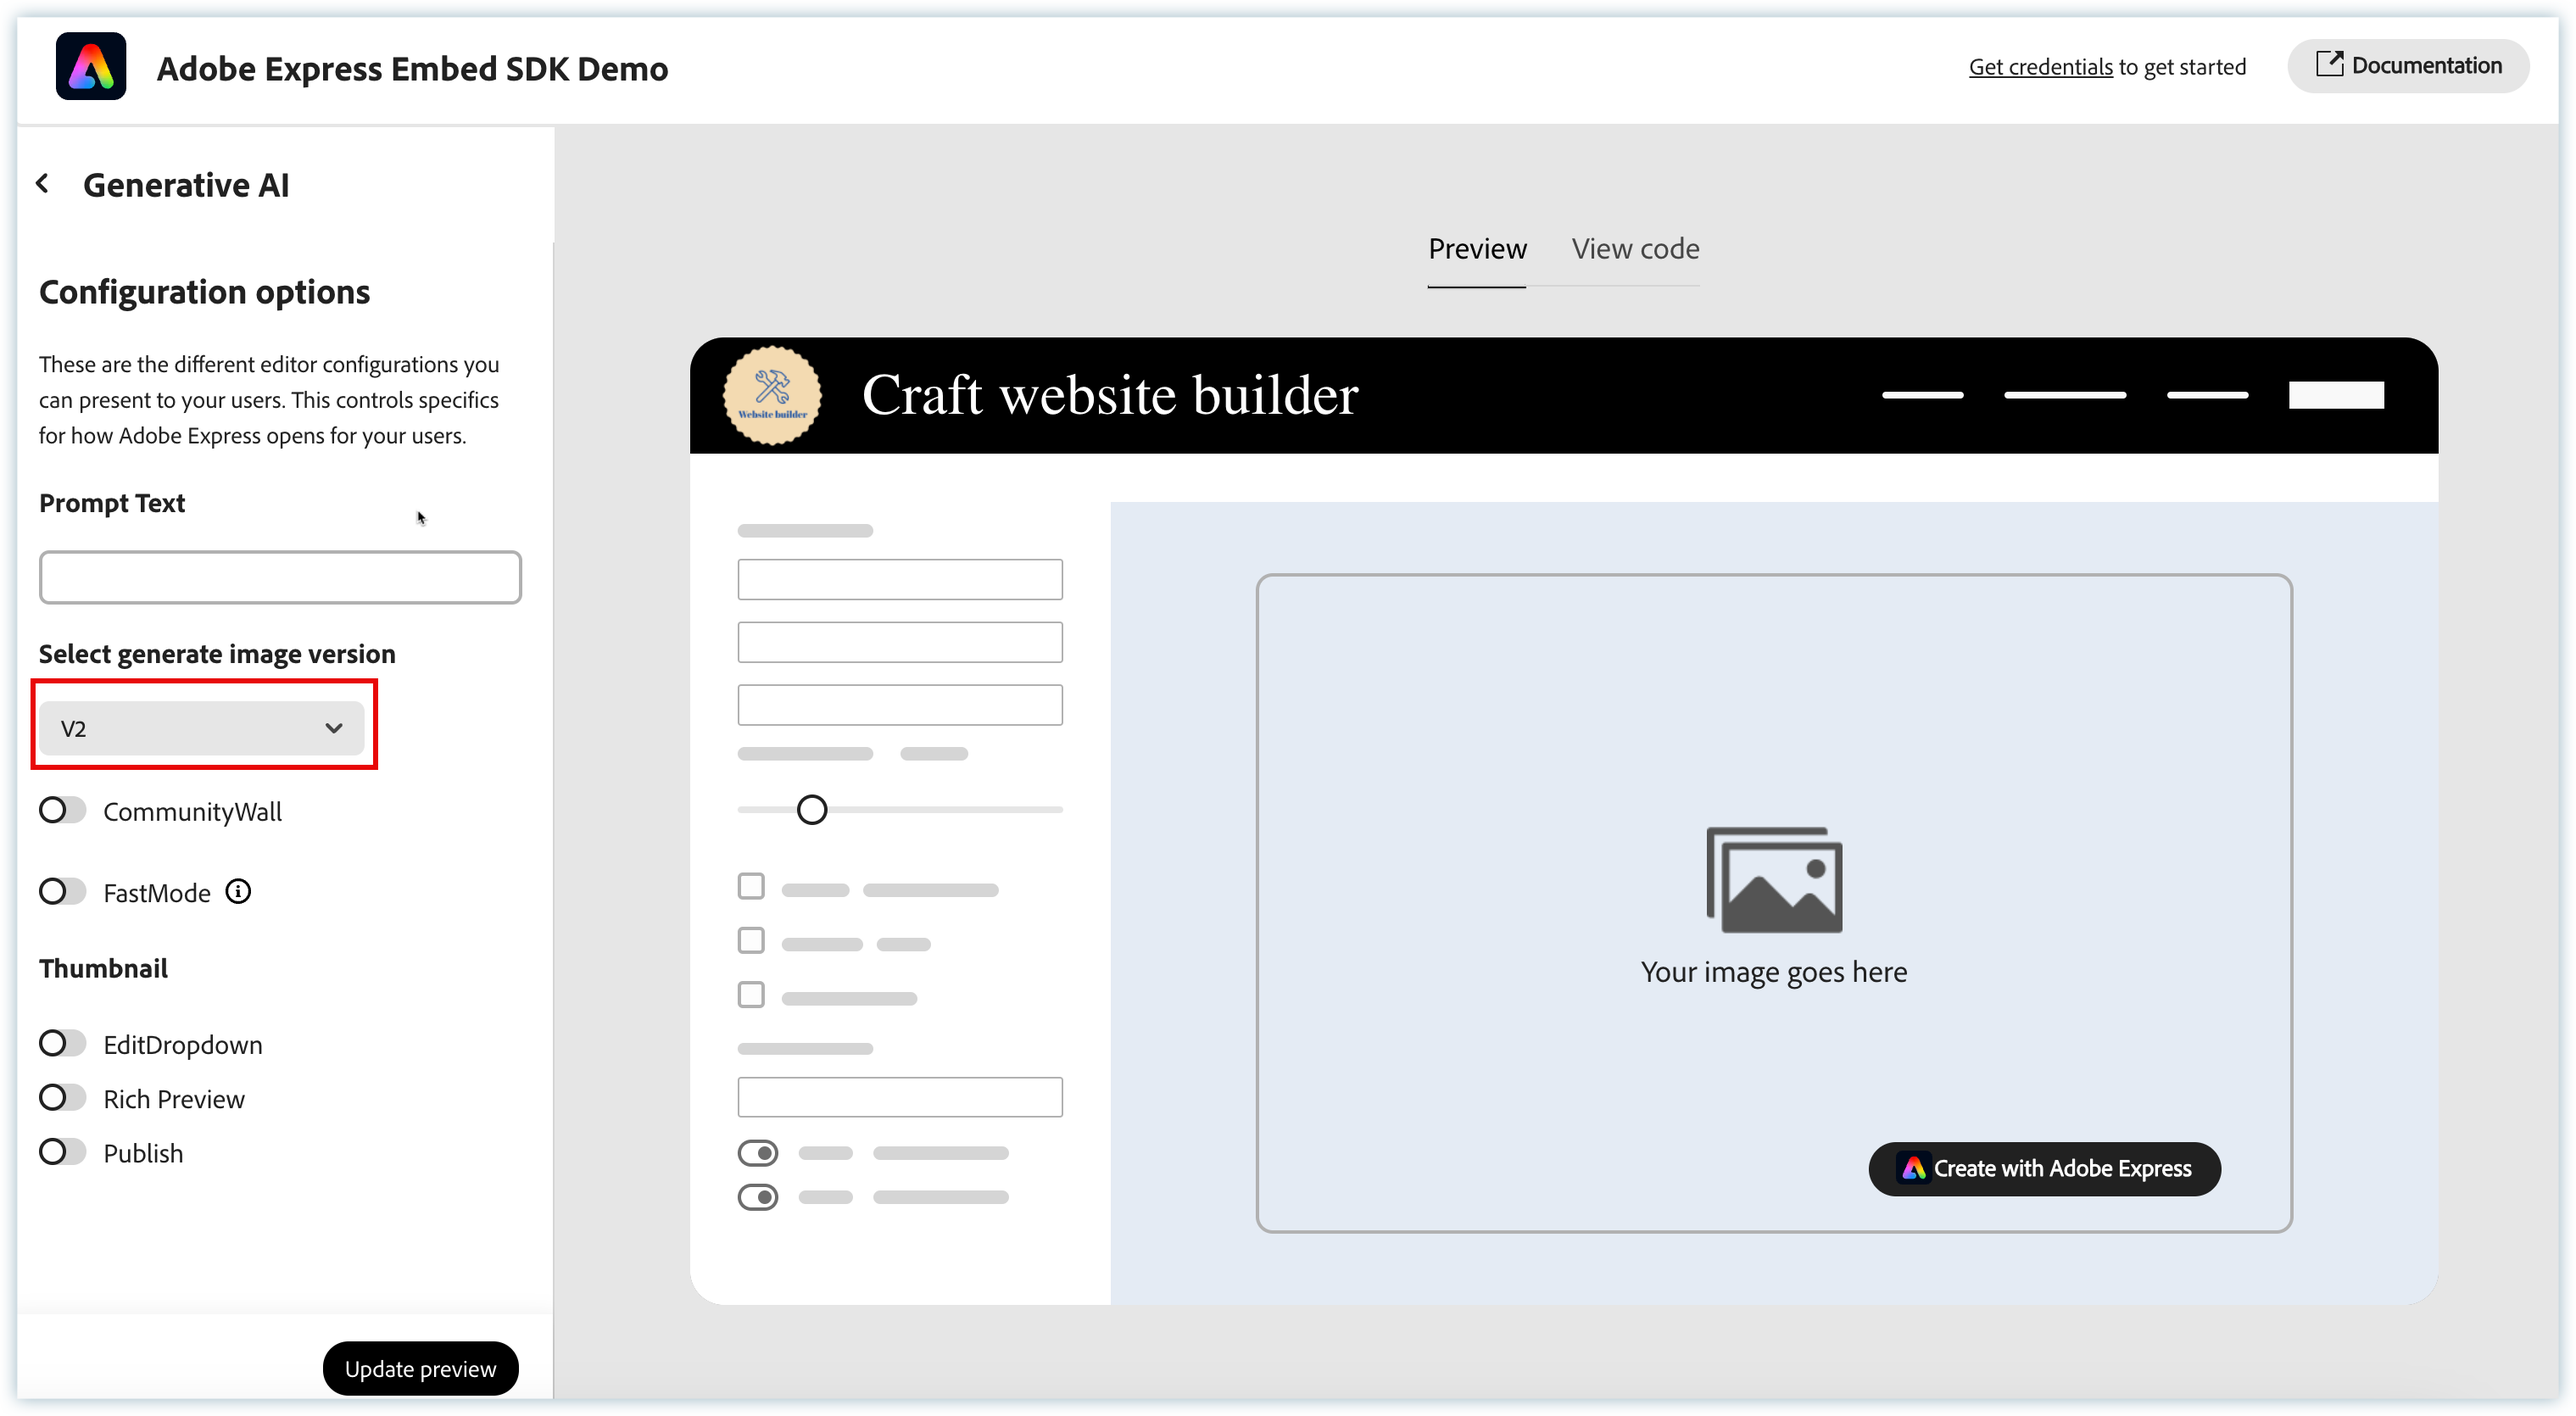
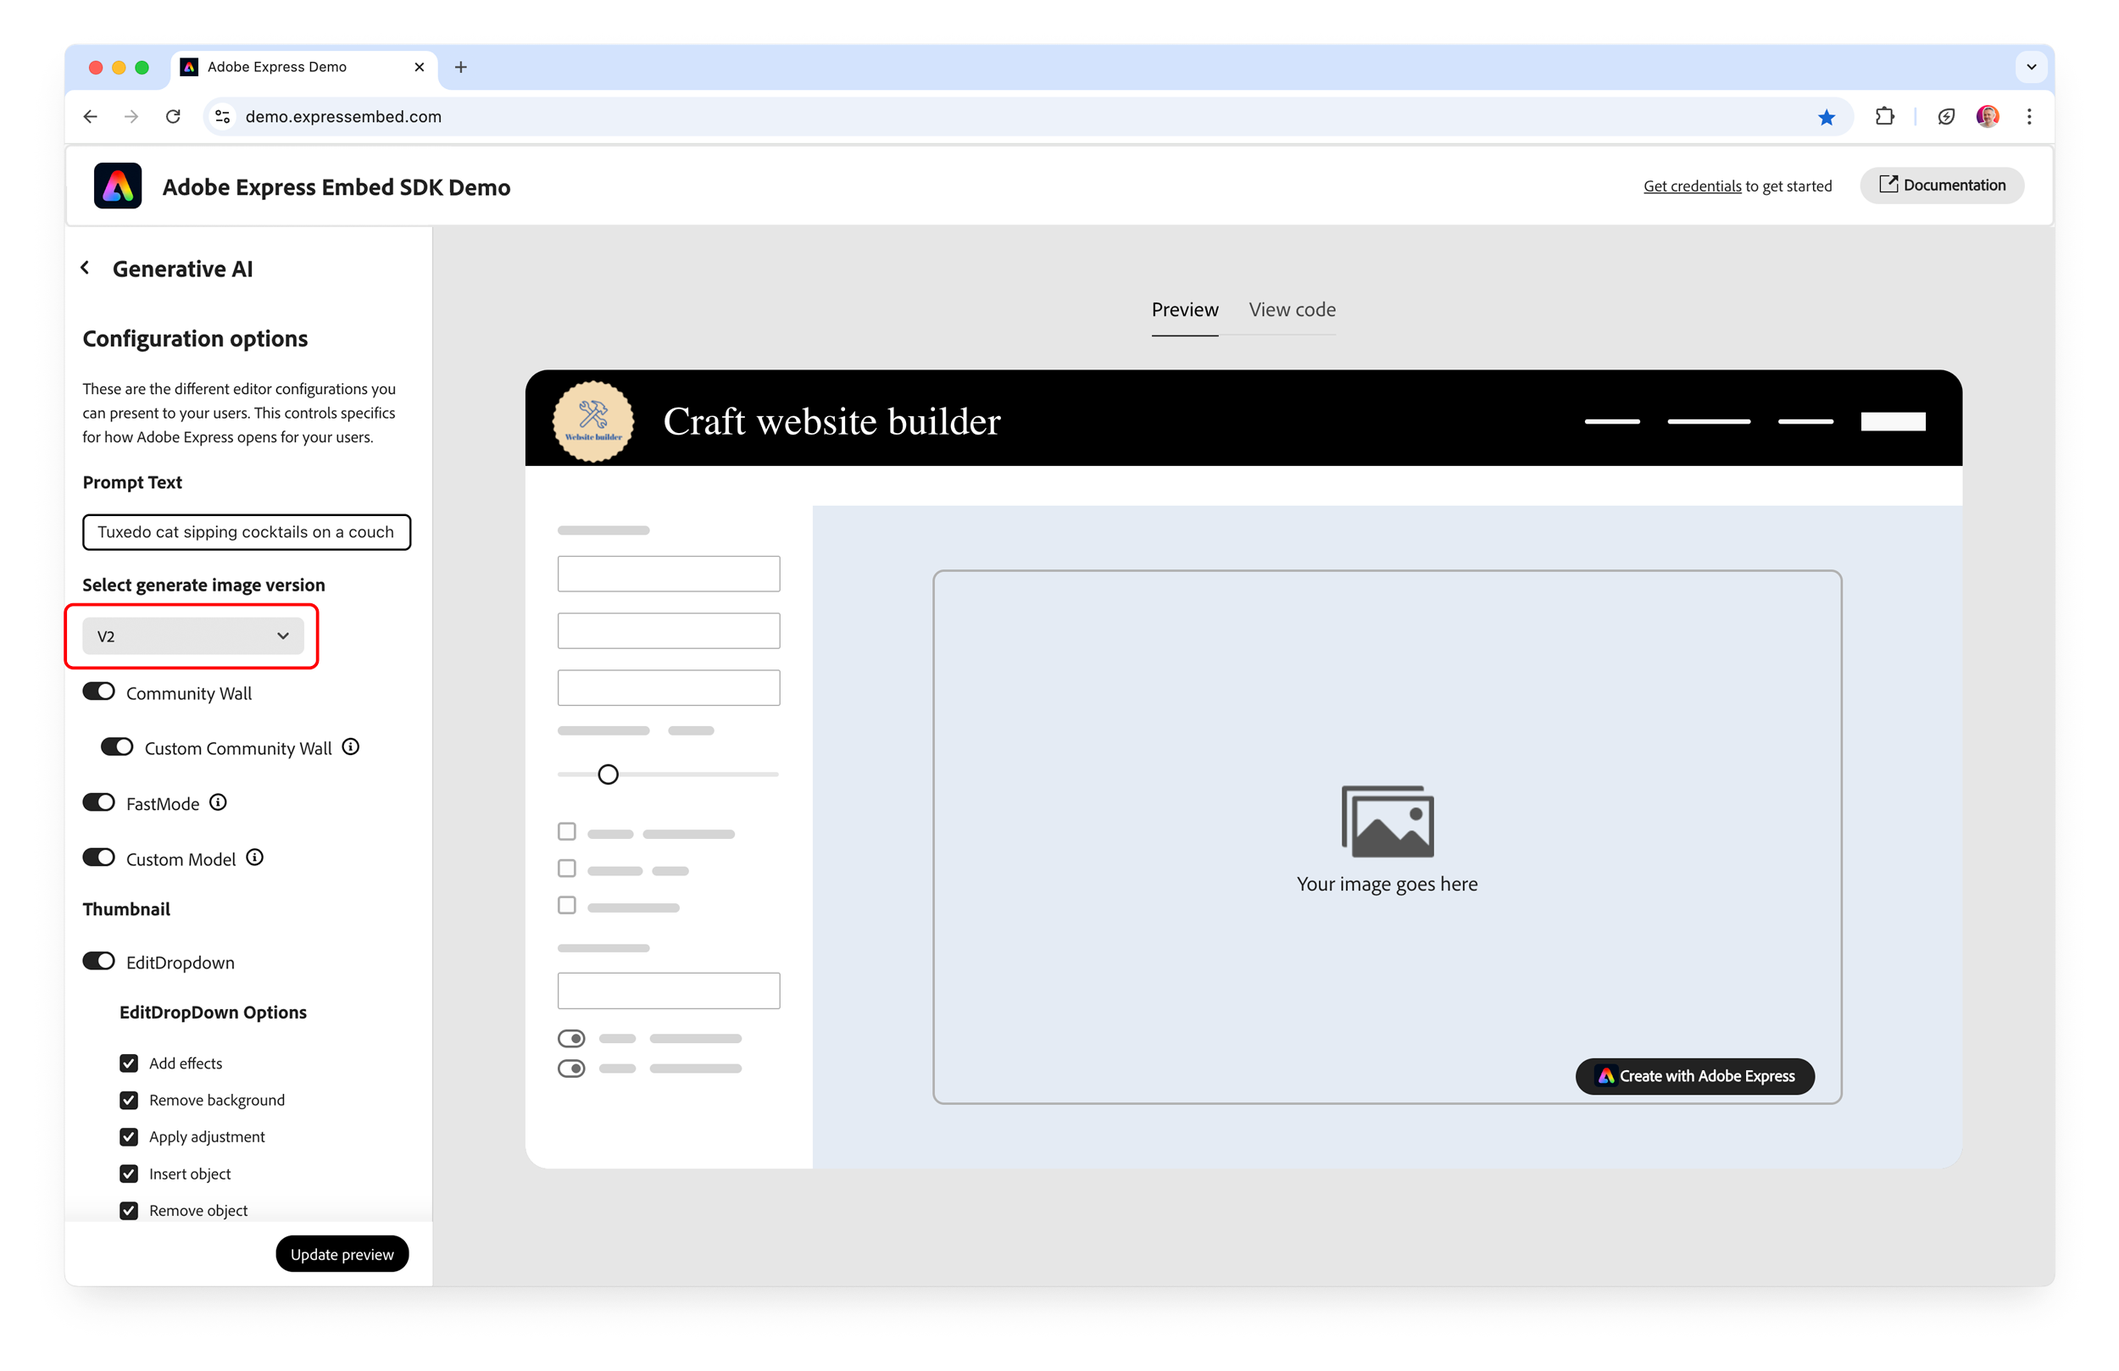
Add Custom Community Wall Add new pic

diff --git a/src/pages/guides/changelog/index.md b/src/pages/guides/changelog/index.md
@@ -28,15 +28,21 @@ Embed SDK v1 and v2 will reach end of life by the **May 12th, 2025**. After this
 
 #### Unlocked new Edit Image v2 experience
 
-- [**`CCEverywhere.module.editImage()`**](../../v4/sdk/src/workflows/3p/ModuleWorkflow/classes/ModuleWorkflow.md): Introduced a new Edit Image v2 experience, rearchitected to deliver significantly improved performance and a better user experience.
+- [**`CCEverywhere.module.editImage()`**](../../v4/sdk/src/workflows/3p/ModuleWorkflow/classes/ModuleWorkflow.md): Introduced a [new Edit Image v2 experience](../concepts/edit-image-v2.md), rearchitected to deliver significantly improved performance and a better user experience.
 
-**Key Features:**
+  **Key Features:**
 
-- **Reduced load times** in the range of 35% to 50%.
-- **Reduced memory consumption** by 35%.
-- **New modular UI** with improved user experience and implementation of the new Adobe Spectrum 2 design system.
+  - **Reduced load times** in the range of 35% to 50%.
+  - **Reduced memory consumption** by 35%.
+  - **New modular UI** with improved user experience and implementation of the new Adobe Spectrum 2 design system.
 
-The new Edit Image v2 experience is available now, with no additional configuration required. Check out our [this page](../concepts/edit-image-v2.md) to learn more.
+  The new Edit Image v2 experience is available now, with no additional configuration required. Check out our [Edit Image v2](../concepts/edit-image-v2.md) page to learn more.
+
+#### Custom Community Wall
+
+- [**`CCEverywhere.TextToImageAppConfig.communityWallConfig`**](../../v4/shared/src/types/module/AppConfig.types/interfaces/TextToImageAppConfig.md#properties): Added a new `communityWallConfig` property to allow host applications to **populate the Community Wall with custom images** instead of Firefly's default assets.
+
+  Please refer to the [this section](../concepts/generate-image-v2.md#custom-community-wall) of the Generate Image v2 page for the implementation details.
 
 ## [4.28.19] 2025-05-05
 
@@ -107,7 +113,7 @@ Updated the [Demo App](https://demo.expressembed.com/) to showcase the Generate 
 - Navigate to **Generative** -> **Generate image** -> **Next**
 - In the Configuration options, Select generate image version as V2.
 
-  ![Demo App](./images/demo-app.png)
+[![Demo App](./images/demo-app.png)](https://demo.expressembed.com/)
 
 - Select all the options you need and click **Create with Adobe Express**
 
